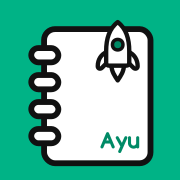
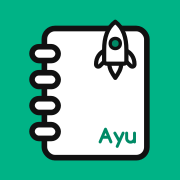
앱 아이콘 가운데 정렬 (r11)

Changed region(s): [[0.1389, 0.1111, 0.8611, 0.9444]]

diff --git a/index.html b/index.html
@@ -12,11 +12,11 @@
 <meta name="apple-mobile-web-app-status-bar-style" content="default">
 <meta name="application-name" content="날아라 아유 보드">
 <title>날아라 아유 보드</title>
-<link rel="manifest" href="./manifest.webmanifest?v=r10">
-<link rel="icon" href="./favicon-48-r10.png" sizes="48x48" type="image/png">
-<link rel="apple-touch-icon" sizes="180x180" href="./apple-touch-icon-r10.png">
-<link rel="apple-touch-icon" href="./apple-touch-icon-r10.png">
-<link rel="apple-touch-icon-precomposed" href="./apple-touch-icon-r10.png">
+<link rel="manifest" href="./manifest.webmanifest?v=r11">
+<link rel="icon" href="./favicon-48-r11.png" sizes="48x48" type="image/png">
+<link rel="apple-touch-icon" sizes="180x180" href="./apple-touch-icon-r11.png">
+<link rel="apple-touch-icon" href="./apple-touch-icon-r11.png">
+<link rel="apple-touch-icon-precomposed" href="./apple-touch-icon-r11.png">
 <style>
 /* 주아 (Jua) · 카카오 작은글씨 — SIL Open Font License 1.1. FONT-LICENSE.txt 참고.
    앱 안의 파일을 먼저 쓰고, 없으면 CDN 으로 넘어간다. */
@@ -708,7 +708,7 @@ footer{font-size:var(--fs-xs);color:var(--ink-3);text-align:center;line-height:1
   <footer>
     달력에서 날짜를 누르면 그날 학습을 보고 고칠 수 있어요.<br>
     기록은 이 기기에 저장돼요. 가끔 백업 파일로 내보내 두세요.<br>
-    <span class="ver">v2026-09-29g</span>
+    <span class="ver">v2026-09-29h</span>
   </footer>
 </div>
 

diff --git a/sw.js b/sw.js
@@ -3,7 +3,7 @@
    아이콘·글꼴은 캐시 우선: 인터넷이 없어도 앱이 그대로 뜬다.
    학습 기록은 캐시가 아니라 localStorage 에 있으므로 캐시를 비워도 사라지지 않는다. */
 
-var VERSION = "ayuboard-2026-09-29g";
+var VERSION = "ayuboard-2026-09-29h";
 var PREFIX = "ayuboard-";
 var SHELL = PREFIX + "shell-" + VERSION;
 
@@ -11,14 +11,14 @@ var SHELL_FILES = [
   "./",
   "./index.html",
   "./manifest.webmanifest",
-  "./manifest.webmanifest?v=r10",
-  "./apple-touch-icon-r10.png",
+  "./manifest.webmanifest?v=r11",
+  "./apple-touch-icon-r11.png",
   "./apple-touch-icon-precomposed.png",
-  "./icon-180-r10.png",
-  "./icon-192-r10.png",
-  "./icon-512-r10.png",
-  "./icon-maskable-512-r10.png",
-  "./favicon-48-r10.png",
+  "./icon-180-r11.png",
+  "./icon-192-r11.png",
+  "./icon-512-r11.png",
+  "./icon-maskable-512-r11.png",
+  "./favicon-48-r11.png",
   "./ayu-avatar-r4.png",
   "./Jua-Korean.woff2",
   "./KakaoSmallSans-Regular.woff2",
